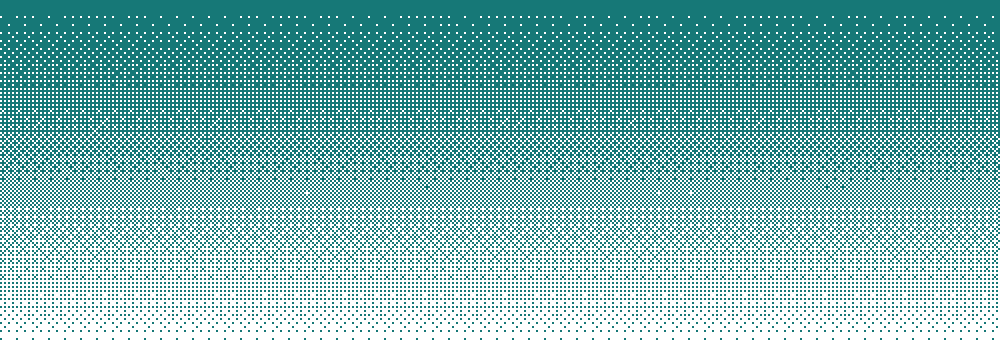
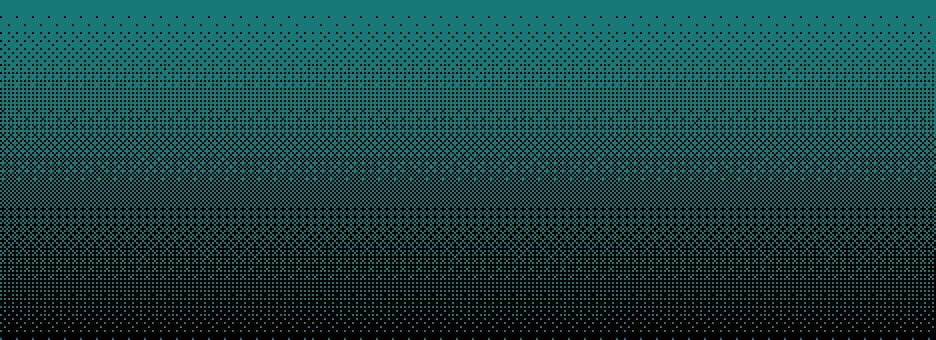
En la rama proyecto-final  Tu rama está actualizada con 'origin/proyecto-final'.
Cambios a ser confirmados:
	modificados:     assets/art/nav.png
	modificados:     css/global.css

diff --git a/css/global.css b/css/global.css
@@ -389,21 +389,21 @@ p {
 @media(min-width: 481px) and (max-width: 768px) {
     
     .banner {
-        background-image: url('../assets/art/nav.png');
-        image-rendering: auto !important;
-        background-size: cover !important;
-        background-position: center !important;
-        width: 100vw !important;
-        height: 170px;
-        display: flex;
-        justify-content: center;
-        align-items: center;
-        color: white;
-        text-shadow: 2px 2px 4px rgba(0, 0, 0, 0.7);
-        margin-top: -3.1rem !important;
-    }
+            background-image: url('../assets/art/nav.png');
+            image-rendering: auto !important;
+            background-size: cover !important;
+            background-position: center !important;
+            width: 100vw !important;
+            height: 170px;
+            display: flex;
+            justify-content: center;
+            align-items: center;
+            color: white;
+            text-shadow: 2px 2px 4px rgba(0, 0, 0, 0.7);
+            margin-top: -3.1rem !important;
+        }
 
-    */ img {
+    img {
         max-width: 80% !important;
     }
 
@@ -426,7 +426,23 @@ p {
 @media (min-width: 769px) and (max-width: 991px) {}
 
 /* Resolución para dispositivos medianos */
-@media (min-width: 992px) and (max-width: 1378px) {}
+@media (min-width: 992px) and (max-width: 1378px) {
+    .banner {
+            background-image: url('../assets/art/nav.png');
+            image-rendering: auto !important;
+            background-size: cover !important;
+            background-position: center !important;
+            width: 100vw !important;
+            height: 170px;
+            display: flex;
+            justify-content: center;
+            align-items: center;
+            color: white;
+            text-shadow: 2px 2px 4px rgba(0, 0, 0, 0.7);
+            margin-top: -3.1rem !important;
+        }
+
+}
 
 /* Default styles for larger screens */
 @media (min-width: 1379px) {}
@@ -614,12 +630,12 @@ p {
     -ms-interpolation-mode: nearest-neighbor;
     image-rendering: crisp-edges;
     */
-    image-rendering: pixelated;
+    /*image-rendering: pixelated;*/
     background-size: contain;
     background-position: center;
-    background-repeat: repeat;
+    background-repeat: repeat-x;
     width: 100vw;
-    height: 170px;
+    height: 340px;
     justify-content: center;
     align-items: center;
     color: white;
